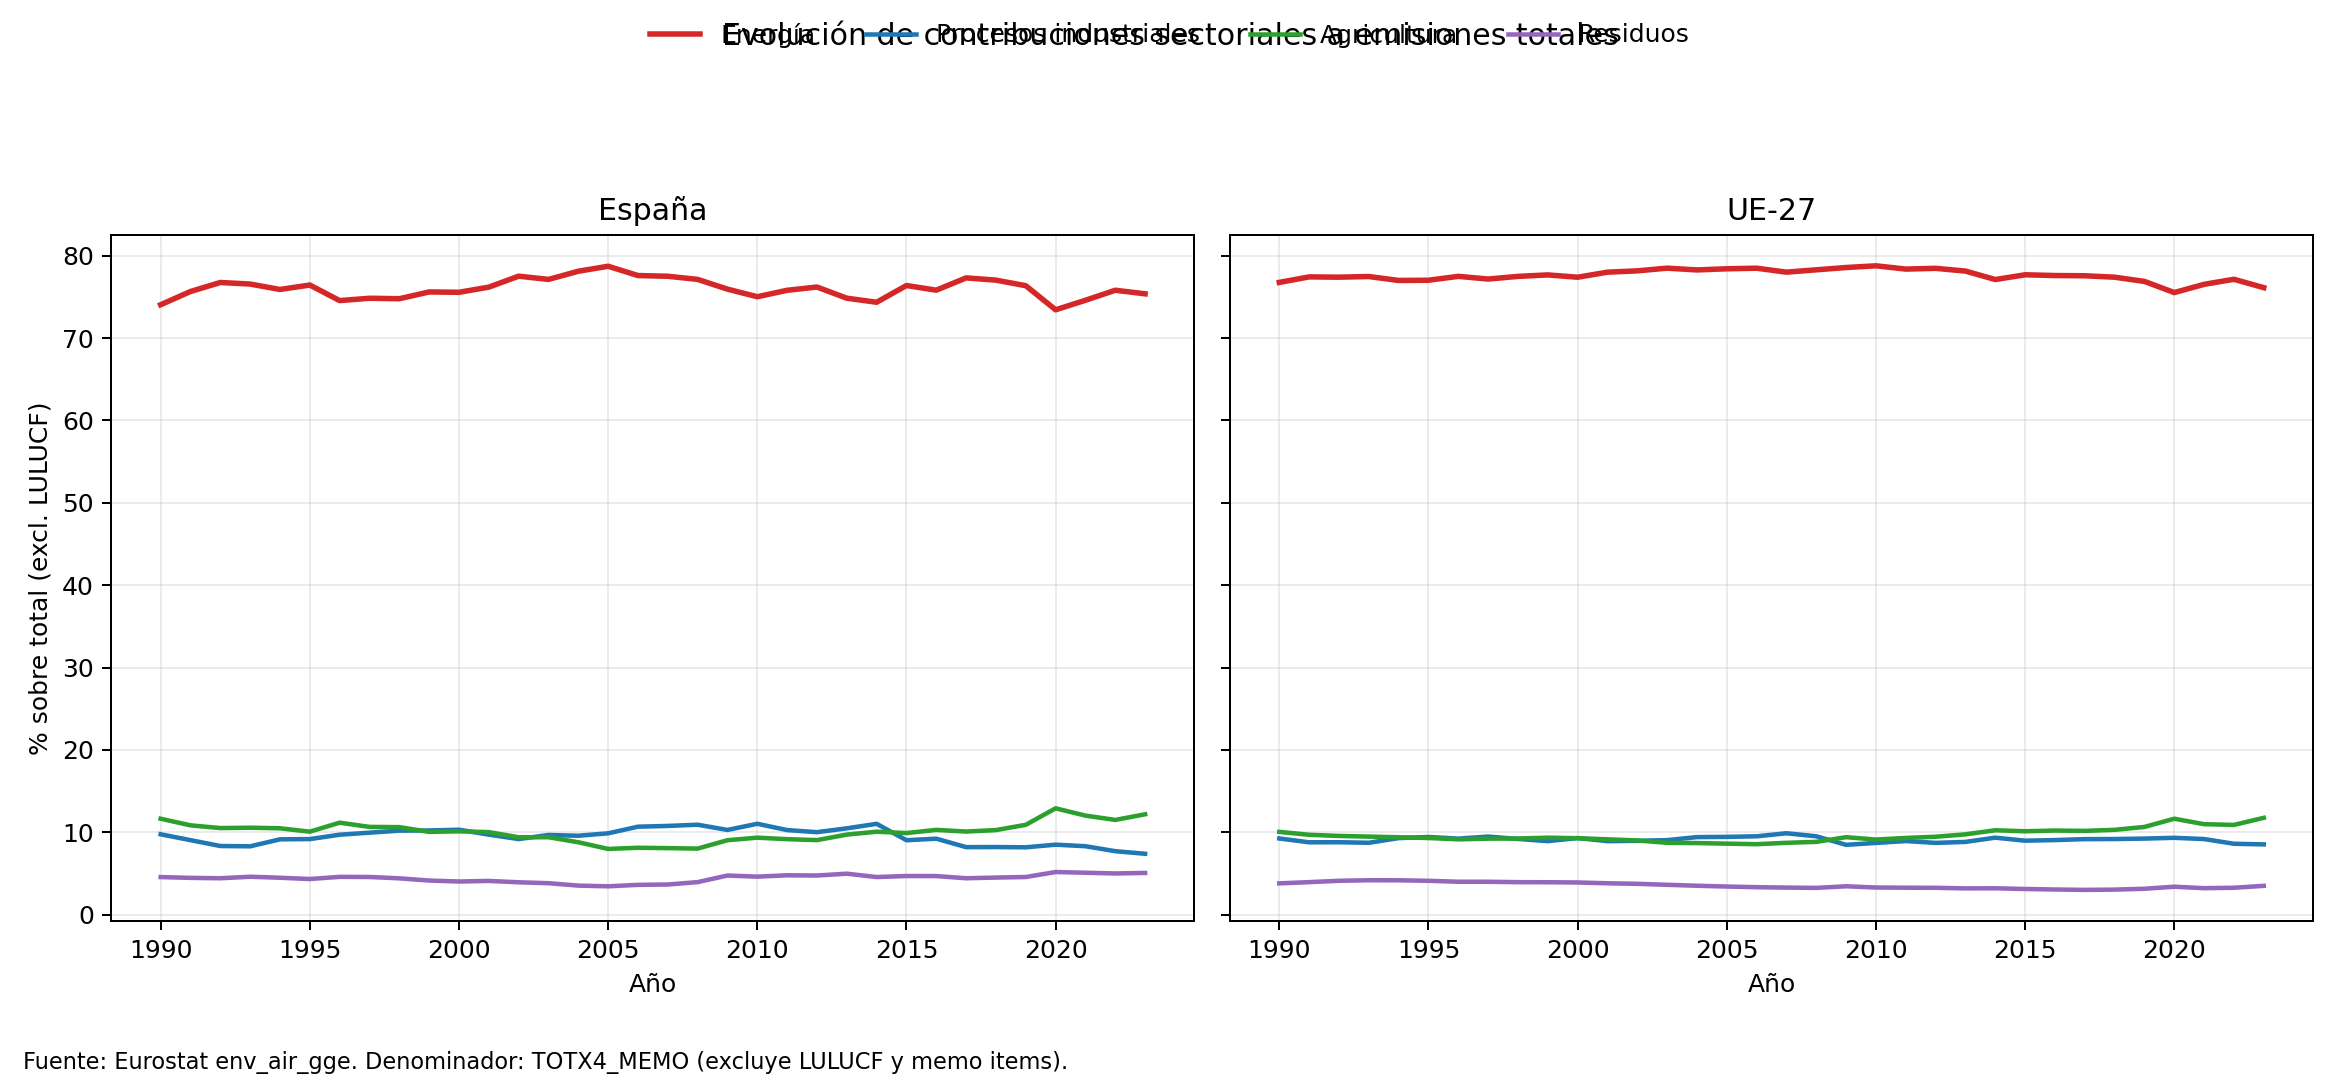
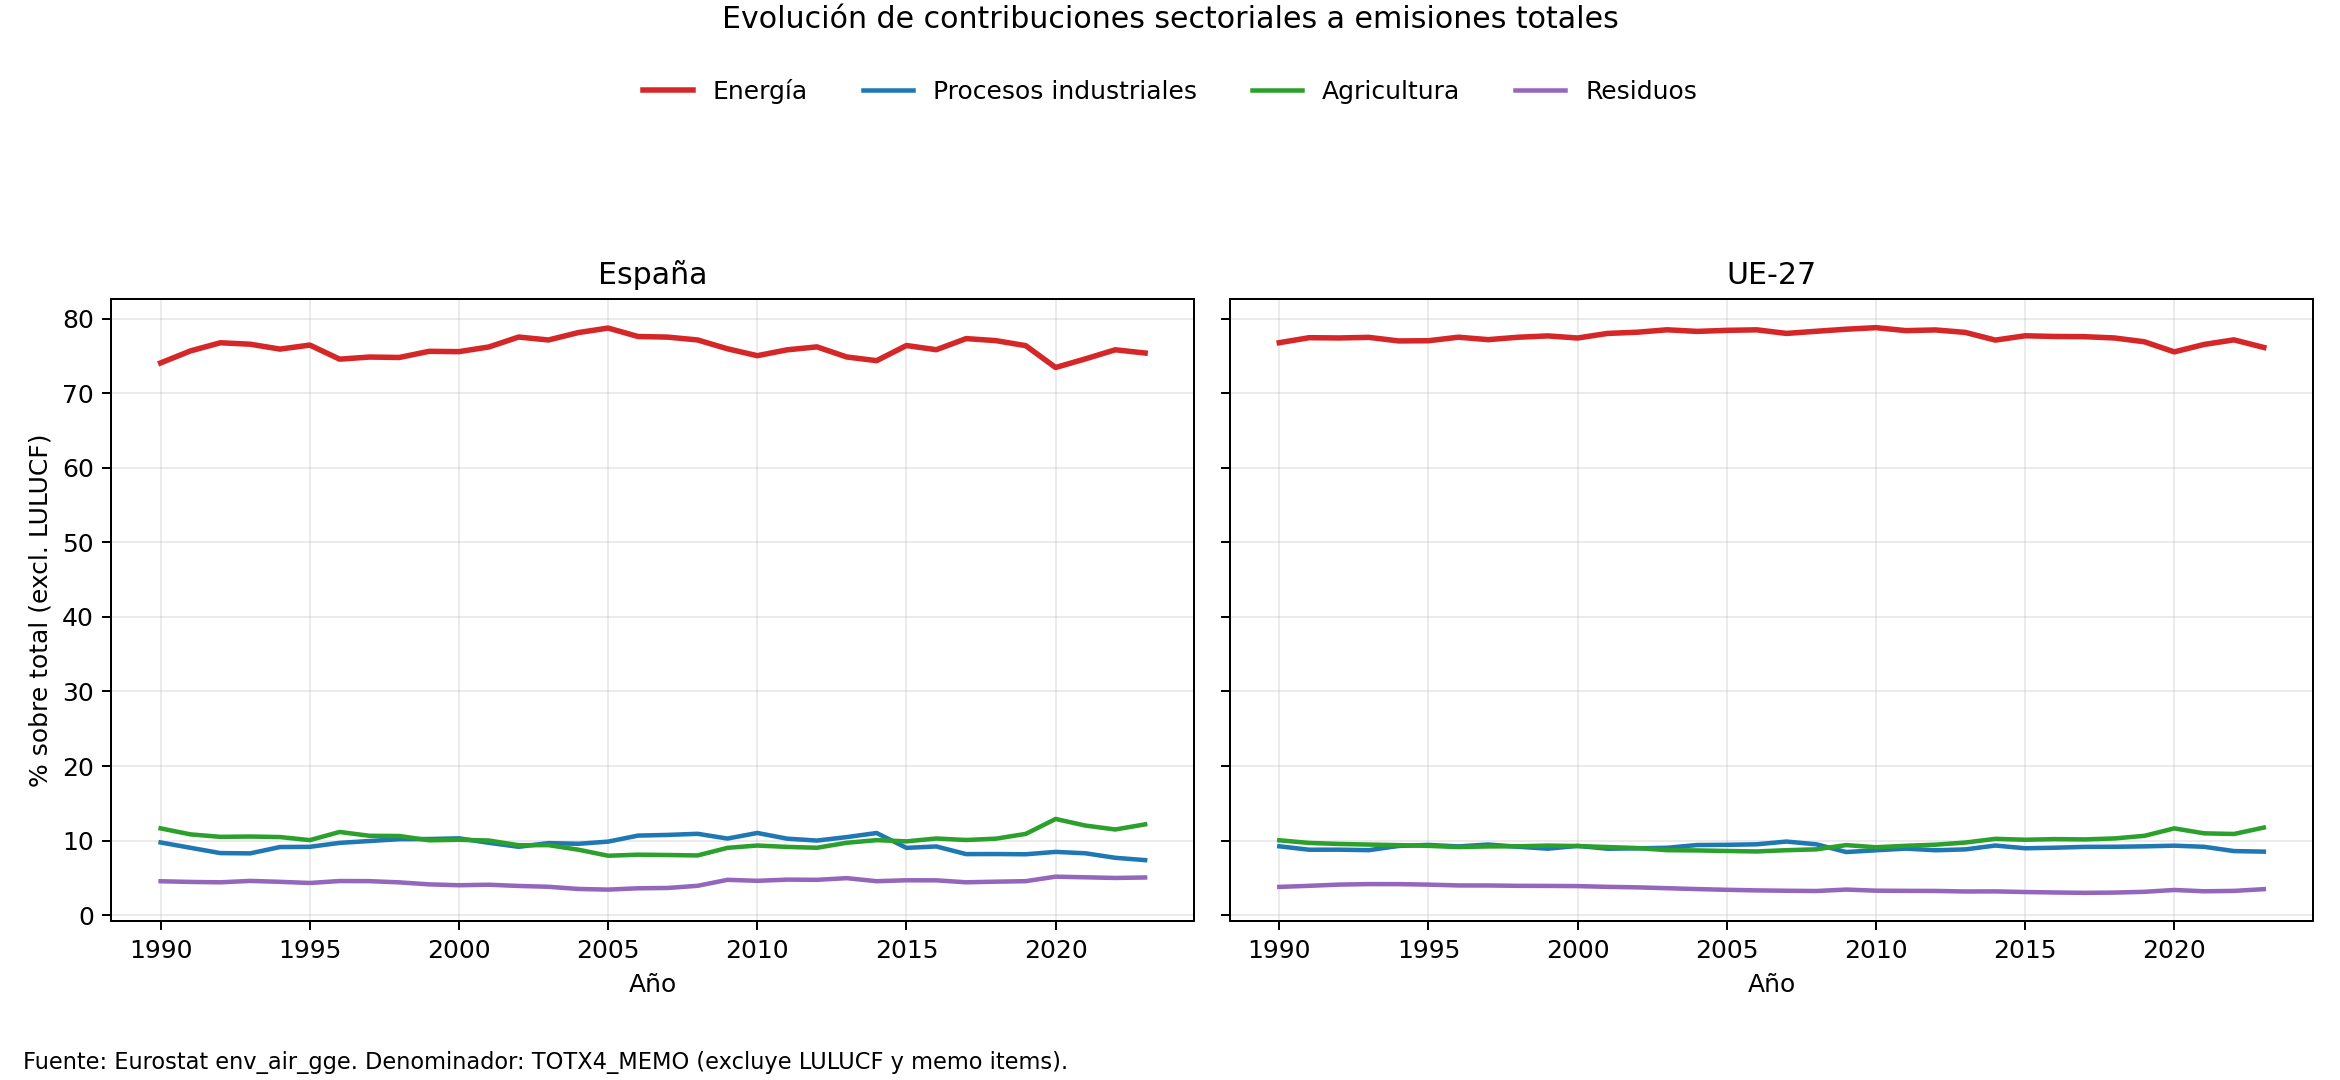
Improve legend spacing in sector contribution evolution chart

diff --git a/scripts/fetch_process_plot_emissions.py b/scripts/fetch_process_plot_emissions.py
@@ -405,8 +405,18 @@ def main():
 
     axes[0].set_ylabel("% sobre total (excl. LULUCF)")
     handles, labels = axes[0].get_legend_handles_labels()
-    fig.legend(handles, labels, loc="upper center", ncol=4, frameon=False)
-    fig.suptitle("Evolución de contribuciones sectoriales a emisiones totales")
+    fig.legend(
+        handles,
+        labels,
+        loc="upper center",
+        bbox_to_anchor=(0.5, 0.95),
+        ncol=4,
+        frameon=False,
+        columnspacing=2.2,
+        handletextpad=0.8,
+        borderaxespad=0.6,
+    )
+    fig.suptitle("Evolución de contribuciones sectoriales a emisiones totales", y=0.995)
     plt.figtext(
         0.01,
         0.01,
@@ -417,7 +427,7 @@ def main():
         ha="left",
         fontsize=9,
     )
-    plt.tight_layout(rect=[0, 0.05, 1, 0.90])
+    plt.tight_layout(rect=[0, 0.05, 1, 0.84])
     SECTOR_SHARE_TS_PLOT_PATH.parent.mkdir(parents=True, exist_ok=True)
     plt.savefig(SECTOR_SHARE_TS_PLOT_PATH, dpi=180)
     plt.close()
